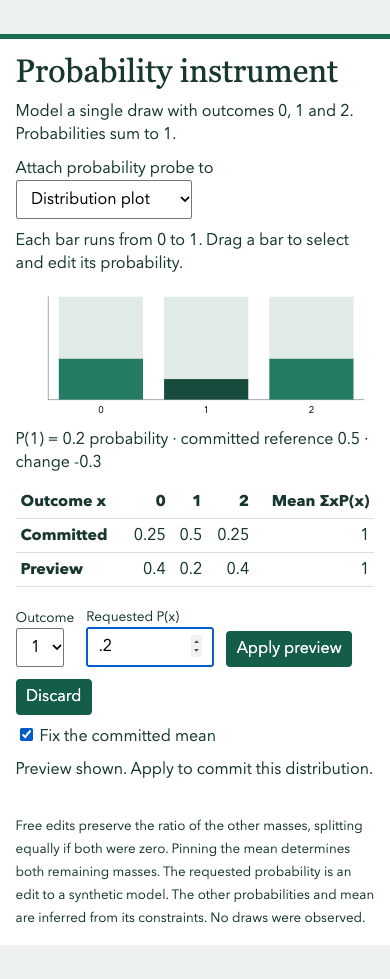
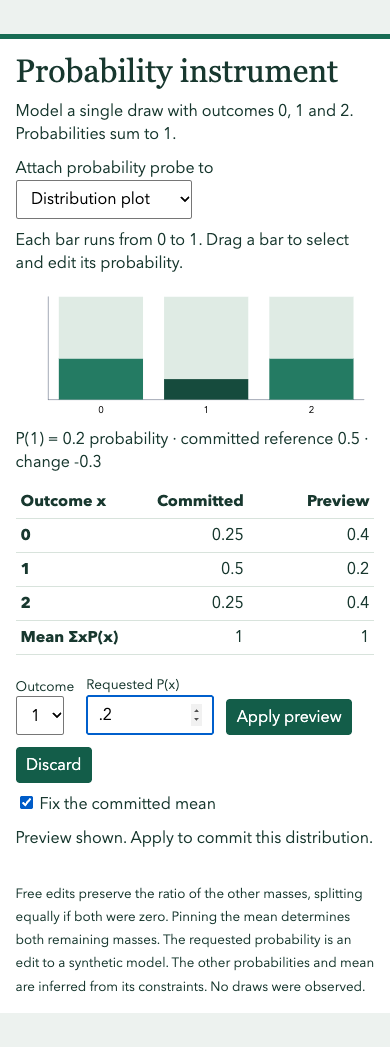
fix(examples): fit fractional probability results on narrow screens

Changed region(s): [[0.0308, 0.3371, 0.9538, 0.9499], [0.0, 0.0306, 1.0, 0.3064]]

diff --git a/examples/probability-instrument/instrument.html b/examples/probability-instrument/instrument.html
@@ -9,6 +9,14 @@ h1{font:normal clamp(32px,6vw,48px)/1.1 Georgia,serif;margin:0}p{margin:.65em 0}
 rect[data-mark]{cursor:ns-resize;fill:#dfebe4}rect[data-mark]:nth-of-type(odd){fill:#247b63}
 table{width:100%;border-collapse:collapse;text-align:right;font-variant-numeric:tabular-nums}
 td,th{padding:5px;border-bottom:1px solid #d8e3dc}th:first-child{text-align:left}
+/* On phones, compare the committed and preview values side by side for each outcome. */
+@media(max-width:32rem){
+  table{display:grid;grid-auto-flow:column;grid-template-columns:auto 1fr 1fr}
+  thead,tbody{display:contents}
+  table tr{display:grid;grid-template-rows:subgrid;grid-row:span 5}
+  table tr th:first-child{text-align:inherit}
+  thead tr{text-align:left}
+}
 form{display:flex;align-items:end;flex-wrap:wrap;gap:12px;margin:20px 0 10px}
 button,select,input{font:inherit}select,input[type=number],button{padding:.4em .65em}
 input[type=number]{width:8em}label span{display:block;font-size:.85em}

diff --git a/examples/probability-instrument/check_browser.py b/examples/probability-instrument/check_browser.py
@@ -134,7 +134,22 @@ def attachment_check(page, capture):
         page.mouse.click(*xy)
         expect(apply).to_be_enabled()
         assert abs(float(target.input_value()) - expected) < .01
+        assert page.evaluate("document.documentElement.scrollWidth <= innerWidth")
         expect(page.locator("#saved td")).to_have_text(["0.25", "0.5", "0.25", "1"])
+
+
+def fractional_layout(page, capture):
+    page.reload()
+    values = ["0.2222222", "0.4444444", "0.3333333", "1.111111"]
+    page.locator("#outcome").select_option("2")
+    page.get_by_label("Requested P(x)").fill(".3333333333333333")
+    expect(page.locator("#draft td")).to_have_text(values)
+    capture("fractional-plot")
+    page.locator("#attachment").select_option("geometry")
+    capture("fractional-triangle")
+    page.get_by_role("button", name="Apply preview").click()
+    expect(page.locator("#saved td")).to_have_text(values)
+    capture("fractional-committed")
 
 
 if __name__ == "__main__":
@@ -157,6 +172,7 @@ if __name__ == "__main__":
                     assert page.evaluate("document.documentElement.scrollWidth <= innerWidth")
                 exercise(page)
                 attachment_check(page, capture)
+                fractional_layout(page, capture)
                 assert not errors, errors
                 print(f"PASS Chrome {browser.version}, {width} × {height}")
                 page.close()

diff --git a/examples/probability-instrument/evidence/attachments/README.md b/examples/probability-instrument/evidence/attachments/README.md
@@ -18,3 +18,7 @@ PYTHONPATH=python uv run --no-project --with playwright python examples/probabil
 ```
 
 All three unit tests passed, including 4,356 feasibility requests. The regenerated Mojo affine transform fixture compared byte-for-byte equal. The observations cover software behavior with synthetic inputs. Human understanding, physical touch, assistive technology and other browser engines were untested.
+
+## Fractional results on phones
+
+Chrome 158 on macOS ran the attachment checks on the integrated implementation at 1280 × 800 and 390 × 844. Entering one third for outcome 2 had previously expanded the 390 px document to 457 px. The phone layout now compares committed and preview values side by side for each outcome. The page stayed within the viewport with the [plot preview](390-fractional-plot.png), after [transfer to the triangle](390-fractional-triangle.png), and after [applying the edit](390-fractional-committed.png). All six narrow captures above were regenerated from this layout. The fixture used synthetic inputs with the mean free. Physical touch and screen-reader interaction remain unverified.
